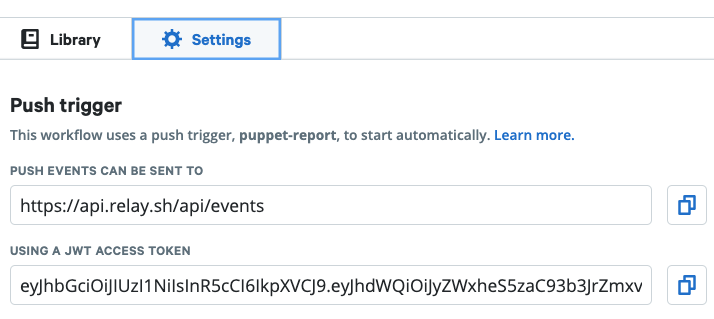
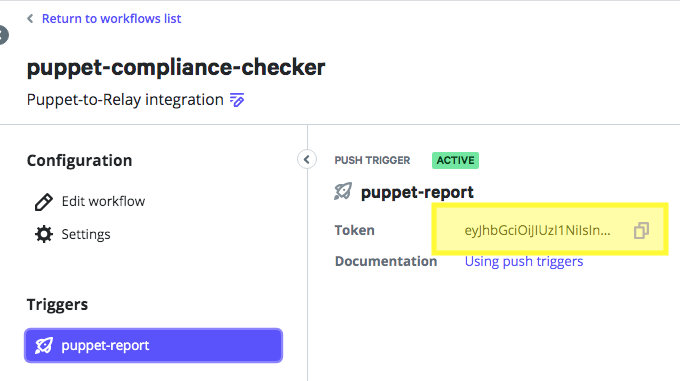
Improve docs for installation/setup, add media

diff --git a/README.md b/README.md
@@ -18,25 +18,28 @@ the Relay SaaS event trigger API. Workflows may subscribe to the triggers and
 decide whether to run based on the run status and log lines.
 
 Second, it runs a Relay agent on your puppetserver which can be used to trigger
-puppet run (without requiring inbound connectivity to your puppetserver).
+puppet runs on specific nodes, without requiring inbound connectivity from 
+Relay to your puppetserver.
 
 ## Setup
 
-### 0. Requirements
+### Requirements
 
 You must already have a puppetserver to which puppet agents submit reports and
-that can connect to the internet.
+that can connect to the internet. Because you'll need to store access tokens
+for Relay, we strongly recommend using eyaml to encrypt the tokens as hiera keys.
 
-You must also have a Relay account registered. You can sign up for one at
-[https://relay.sh/](https://relay.sh/) if you do not already have one.
+You must also have a Relay account registered. You can sign up for free at
+[https://relay.sh/](https://relay.sh/) if you do not already have an account.
 
-### 1. Setup the Relay workflow
+### Set up Relay
 
-The report processor needs a Relay push-trigger access token that is
-authorized to talk to the Relay API. To get an access token, add a workflow
+The report processor needs a Relay [push-trigger access token](https://relay.sh/docs/reference/relay-workflows/#push) that is
+authorized to talk to the Relay API. To generate an access token, add a workflow
 push trigger to a Relay workflow and copy the token from the sidebar.
 
-The workflow trigger in Relay will look something like this:
+The workflow trigger in Relay will look like this:
+
 ```yaml
 triggers:
   - name: puppet-report
@@ -50,22 +53,30 @@ triggers:
         time: !Data time
 ```
 
-You'll then copy the access token from the sidebar:
-![ Copying access token from the sidebar](https://github.com/puppetlabs/puppetlabs-relay/raw/tasks/update-instructions/media/push-trigger.png)
+You'll then copy the access token from the Triggers section of the workflow page:
+![ Copying access token from the workflow page](https://github.com/puppetlabs/puppetlabs-relay/raw/master/media/push-trigger.png)
 
-To see an example of a Relay workflow that uses this trigger, [check it
-out here](https://github.com/puppetlabs/relay-workflows/tree/master/puppet-shutdown-ec2).
+To see an example of a Relay workflow that uses this trigger, see 
+[the puppet-shutdown-ec2 example workflow](https://github.com/puppetlabs/relay-workflows/tree/master/puppet-shutdown-ec2), which watches for unexpected changes to the `sudoers` file 
+and shuts down affected nodes for investigation.
 
-Please see [our
-documentation](https://relay.sh/docs/reference/relay-workflows/#push) for
-further details on configuring push triggers.
+To use the Relay agent capability, which enables you to trigger
+Puppet runs from Relay workflows, you'll also need to set up a 
+Puppet connection in the Relay app. This will generate a separate
+token that the Relay agent, running on your puppetserver, uses to
+authenticate run requests from the service. To configure this, go
+to the **Connections** screen and click **Add connection**. Select
+the **Puppet** connection type from the drop-down menu, give it a
+name, and save the resulting token - it won't be displayed again.
+
+![Adding a new Puppet connection in Relay](https://github.com/puppetlabs/puppetlabs-relay/raw/master/new-connection.png)
 
 ### 2. Configure the puppetserver
 
 The report processor may be automatically set up by classifying the puppetserver
 host with the `relay` class. This class will:
 
-1. configure the report processor list of the puppetserver to include the
+1. configure the report processor setting on the puppetserver to include the
    `relay` report processor if you specify one or more trigger tokens
 1. (on Puppet Enterprise) reload the puppetserver process to load the new report
    processor
@@ -73,49 +84,75 @@ host with the `relay` class. This class will:
    connection token
 1. set up the Relay agent configuration and service to run automatically
 
-The classification will look something like this for Puppet Enterprise:
+For Puppet Enterprise, add the `relay` class to the Node Classifier group 
+that contains your puppetmasters. Open source Puppet classification will 
+vary per local setup, but you'll need to make sure the hosts running
+puppetservers also are classified with the `relay` class.
 
-```puppet
-class { 'relay':
-  relay_trigger_token => [
-    Sensitive('eyJhbG...OCMGbtUc'),
-  ],
-  relay_connection_token => Sensitive('eyJhbG...adQssw5c'),
-  backend_options => {
-    # This is a Puppet RBAC token for connecting to the Orchestrator API,
-    # generated using the `puppet-access` command.
-    token => Sensitive('0a1Tje...ng-3eq4'),
-  },
-}
+We recommend using hiera to store the configuration for the Relay module,
+and specifically to use hiera-eyaml to prevent hardcoding the tokens in
+your configuration. For more information on hiera-eyaml, see the [hiera-eyaml documentation on Github](https://github.com/voxpupuli/hiera-eyaml). You'll need to hiera keys with the eyaml-encrypted values of the Relay push token at a minimum.
+Additionally, if you're using the Relay agent functionality, add the token for
+the Puppet connection and either the PE Orchestrator access token or 
+a ssh key to enable Bolt to access nodes.
+
+```yaml
+lookup_options:
+  "^relay::.*token":
+    convert_to: "Sensitive"
+
+# this token is from the "trigger" configuration
+relay::relay_trigger_token: >
+   ENC[PKCS7,.....]
+# this token is from the Puppet connection setup
+relay::relay_connection_token: >
+   ENC[PKCS7,.....]
+# For PE, this token is from `puppet access show`
+relay::backend_options::token: >
+   ENC[PKCS7,.....]
+# For ssh access to nodes, configure ssh backend options instead
+relay::backend_options::ssh_host_key_check: false,
+relay::backend_options::ssh_user: puppet-automation
+relay::backend_options::ssh_password: >
+   ENC[PKCS7,.....]
 ```
 
-For open source Puppet, the agent can use Bolt to execute the Puppet agent:
-
-```puppet
-class { 'relay':
-  # ...
-  backend_options => {
-    ssh_host_key_check => false,
-    ssh_user => 'puppet-automation',
-    ssh_password => Sensitive('@utom@tion'),
-  },
-}
-```
 
 ## Example #1: Trigger Relay workflow from Puppet run
 
-Run the Puppet agent (either in noop or enforce mode) to trigger the Relay workflow.
+Run the Puppet agent (either in noop or enforce mode) to trigger a Relay workflow. 
 
-Note that the report will only be sent if resources are out of sync.
+If the Relay report processor detects an out-of-sync resource, with the agent
+in either no-op or enforce mode, it will send the report details to the Relay
+push API, authenticated with the `relay_trigger_token` we configured above.
+The workflow can then take action using any combination the steps from the 
+[Relay integration library](https://relay.sh/library/).
 
-```bash
-$ puppet agent -t --noop
-```
+The example [puppet-shutdown-ec2](https://github.com/puppetlabs/relay-workflows/tree/master/puppet-shutdown-ec2) module looks for unexpected changes in sudoers and
+fences off potentially compromised nodes by shutting them down.
 
 ## Example #2: Trigger Puppet run from Relay
 
-Configure a Puppet step in your Relay workflow:
+To connect Relay workflows to your Puppet estate, configure the
+Puppet connection in Relay as described above. Make sure the relay
+agent is running on your puppetserver node; this agent makes outbound
+connections to periodically poll the Relay service for new actions
+to take, and will then use the transport configured in `backend_options`
+parameters to kick off Puppet agent runs on the nodes the workflow
+specifies.
+
+To set this up, add a Puppet connection in Relay, then add a step like 
+the following to your Relay workflow. Make sure the `name` field in the 
+`!Connection` value matches the name you set at creation time. In this
+example, the workflow has a parameter `host` which the user supplies;
+instead of `!Parameter host`, you could use the [output of an earlier step](https://relay.sh/docs/using-workflows/passing-data-into-workflow-steps/) or
+[data fields from a push or webhook trigger](https://relay.sh/docs/using-workflows/using-triggers/#push-triggers).
+
 ```yaml
+parameters:
+  host:
+    description: Which host to kick off a puppet agent run
+steps:
 - name: start-puppet-run
   image: relaysh/puppet-step-run-start
   spec:
